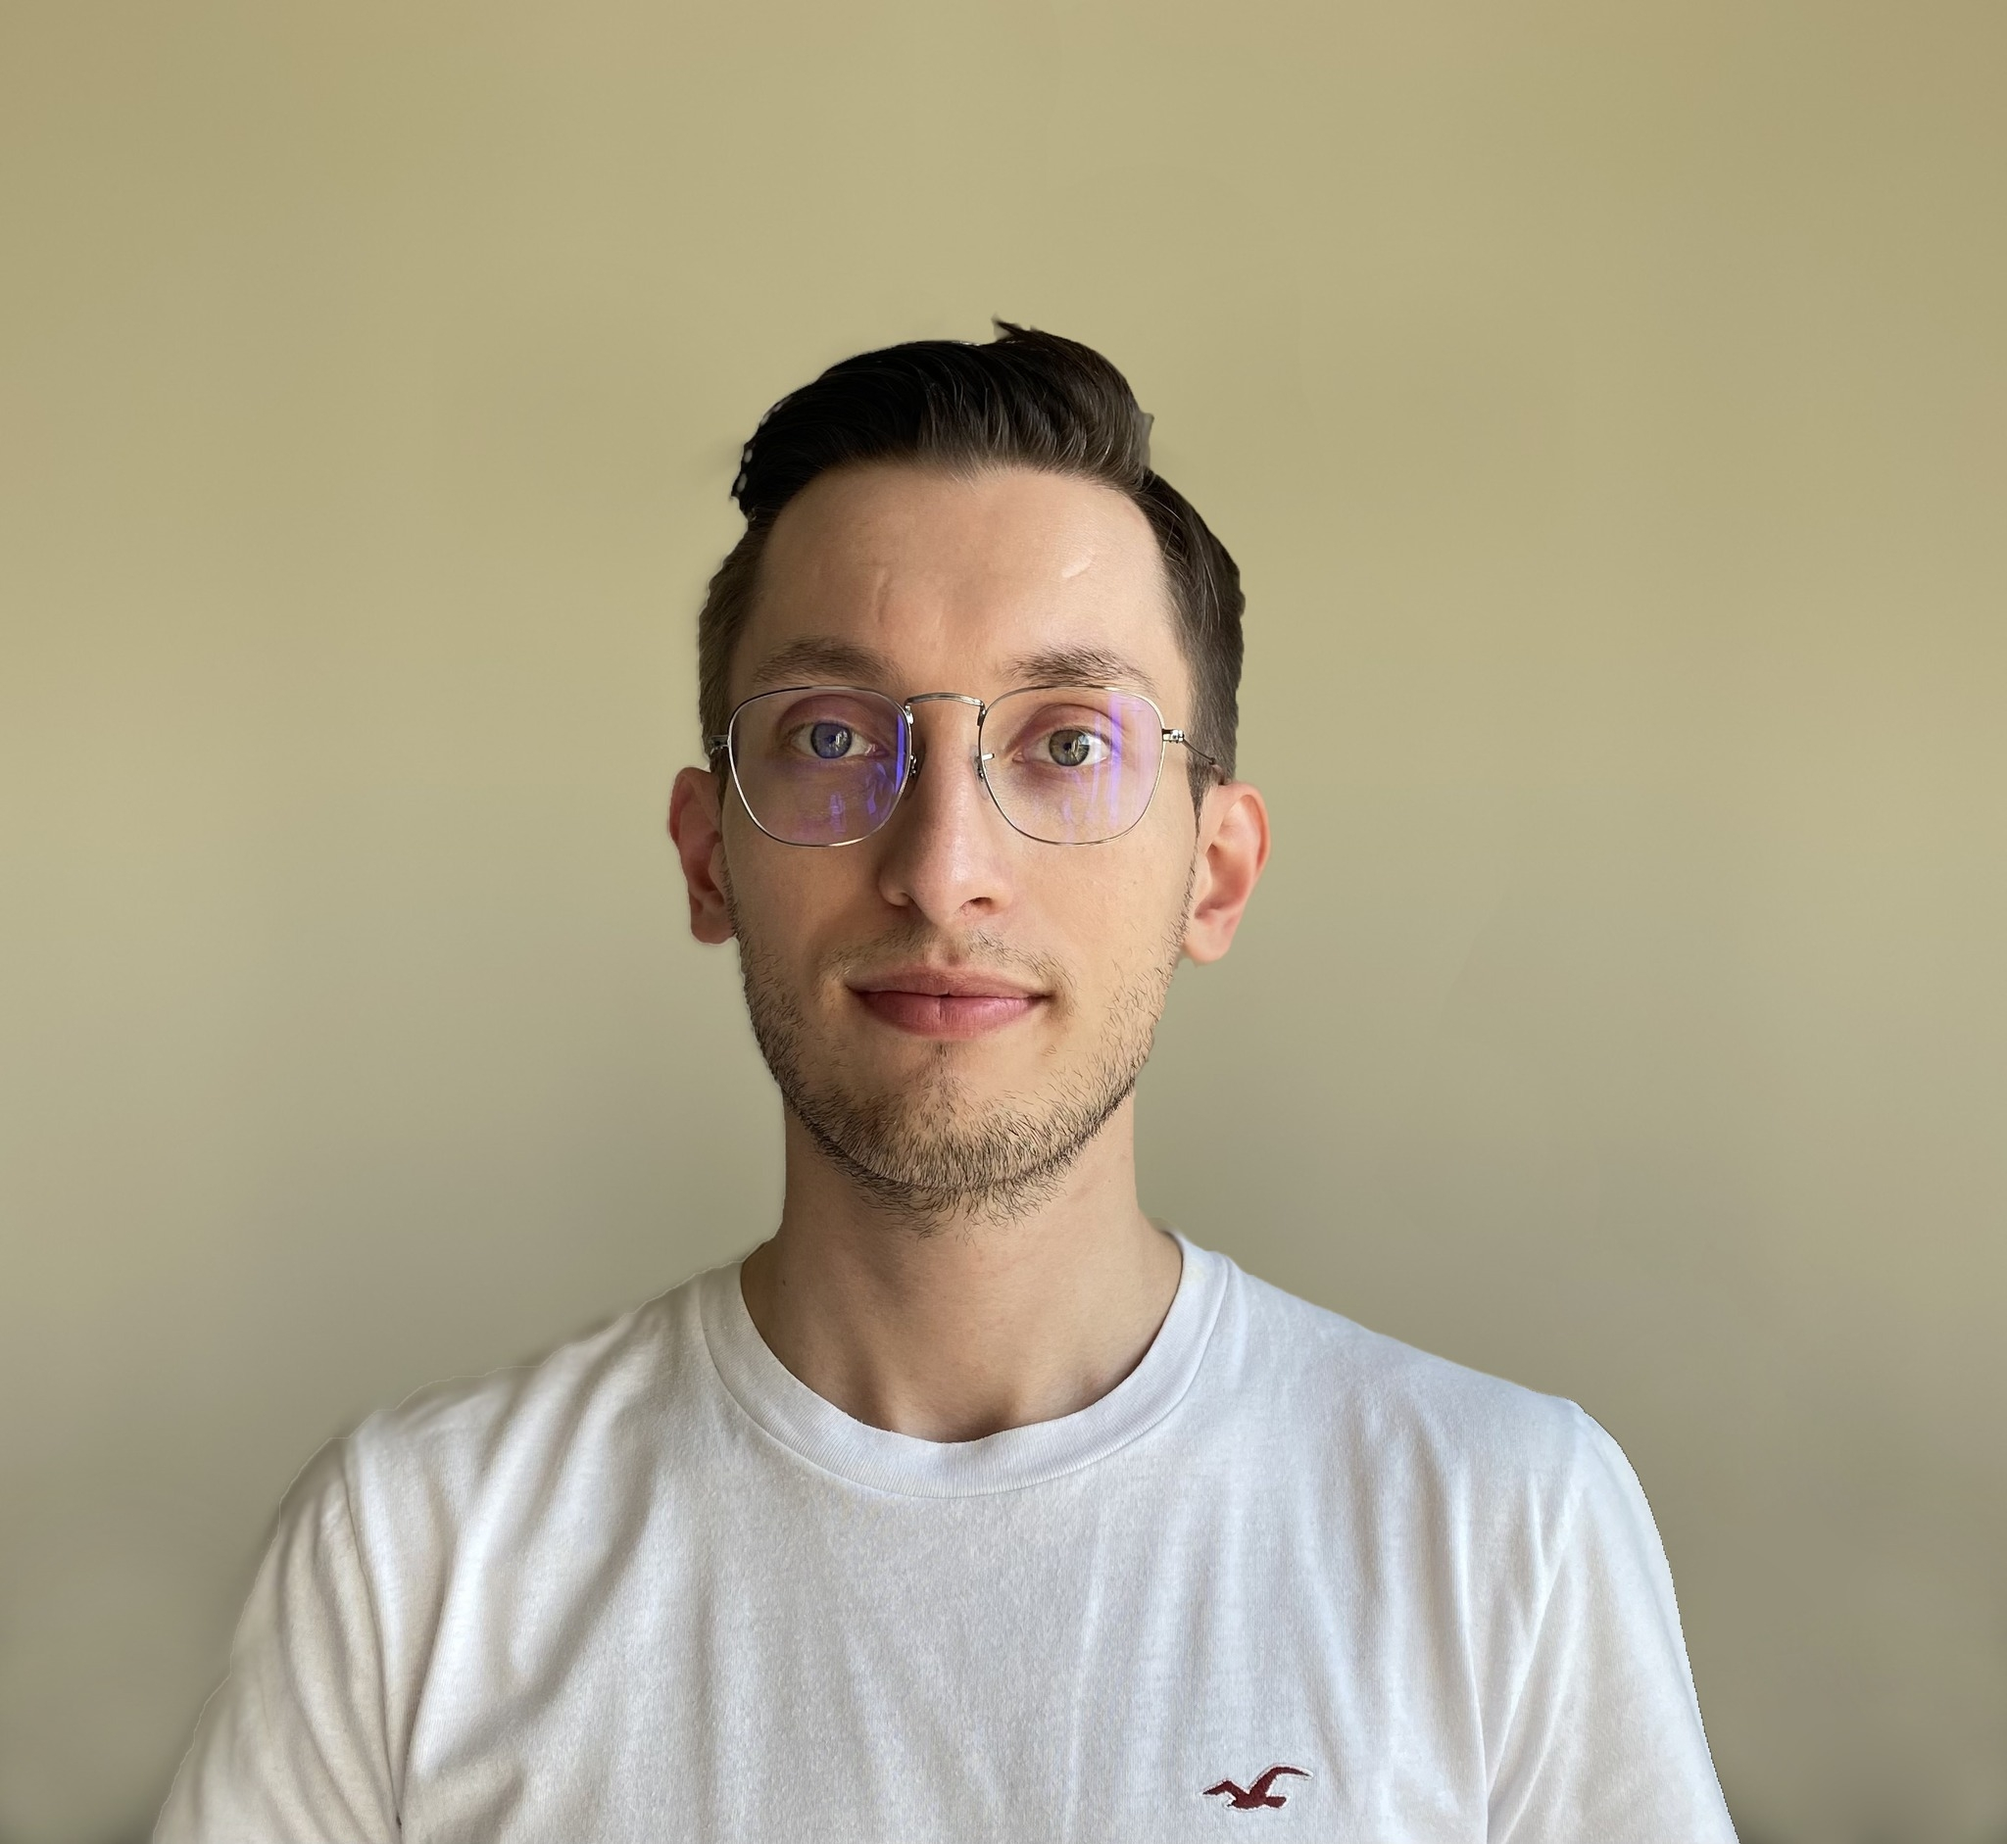
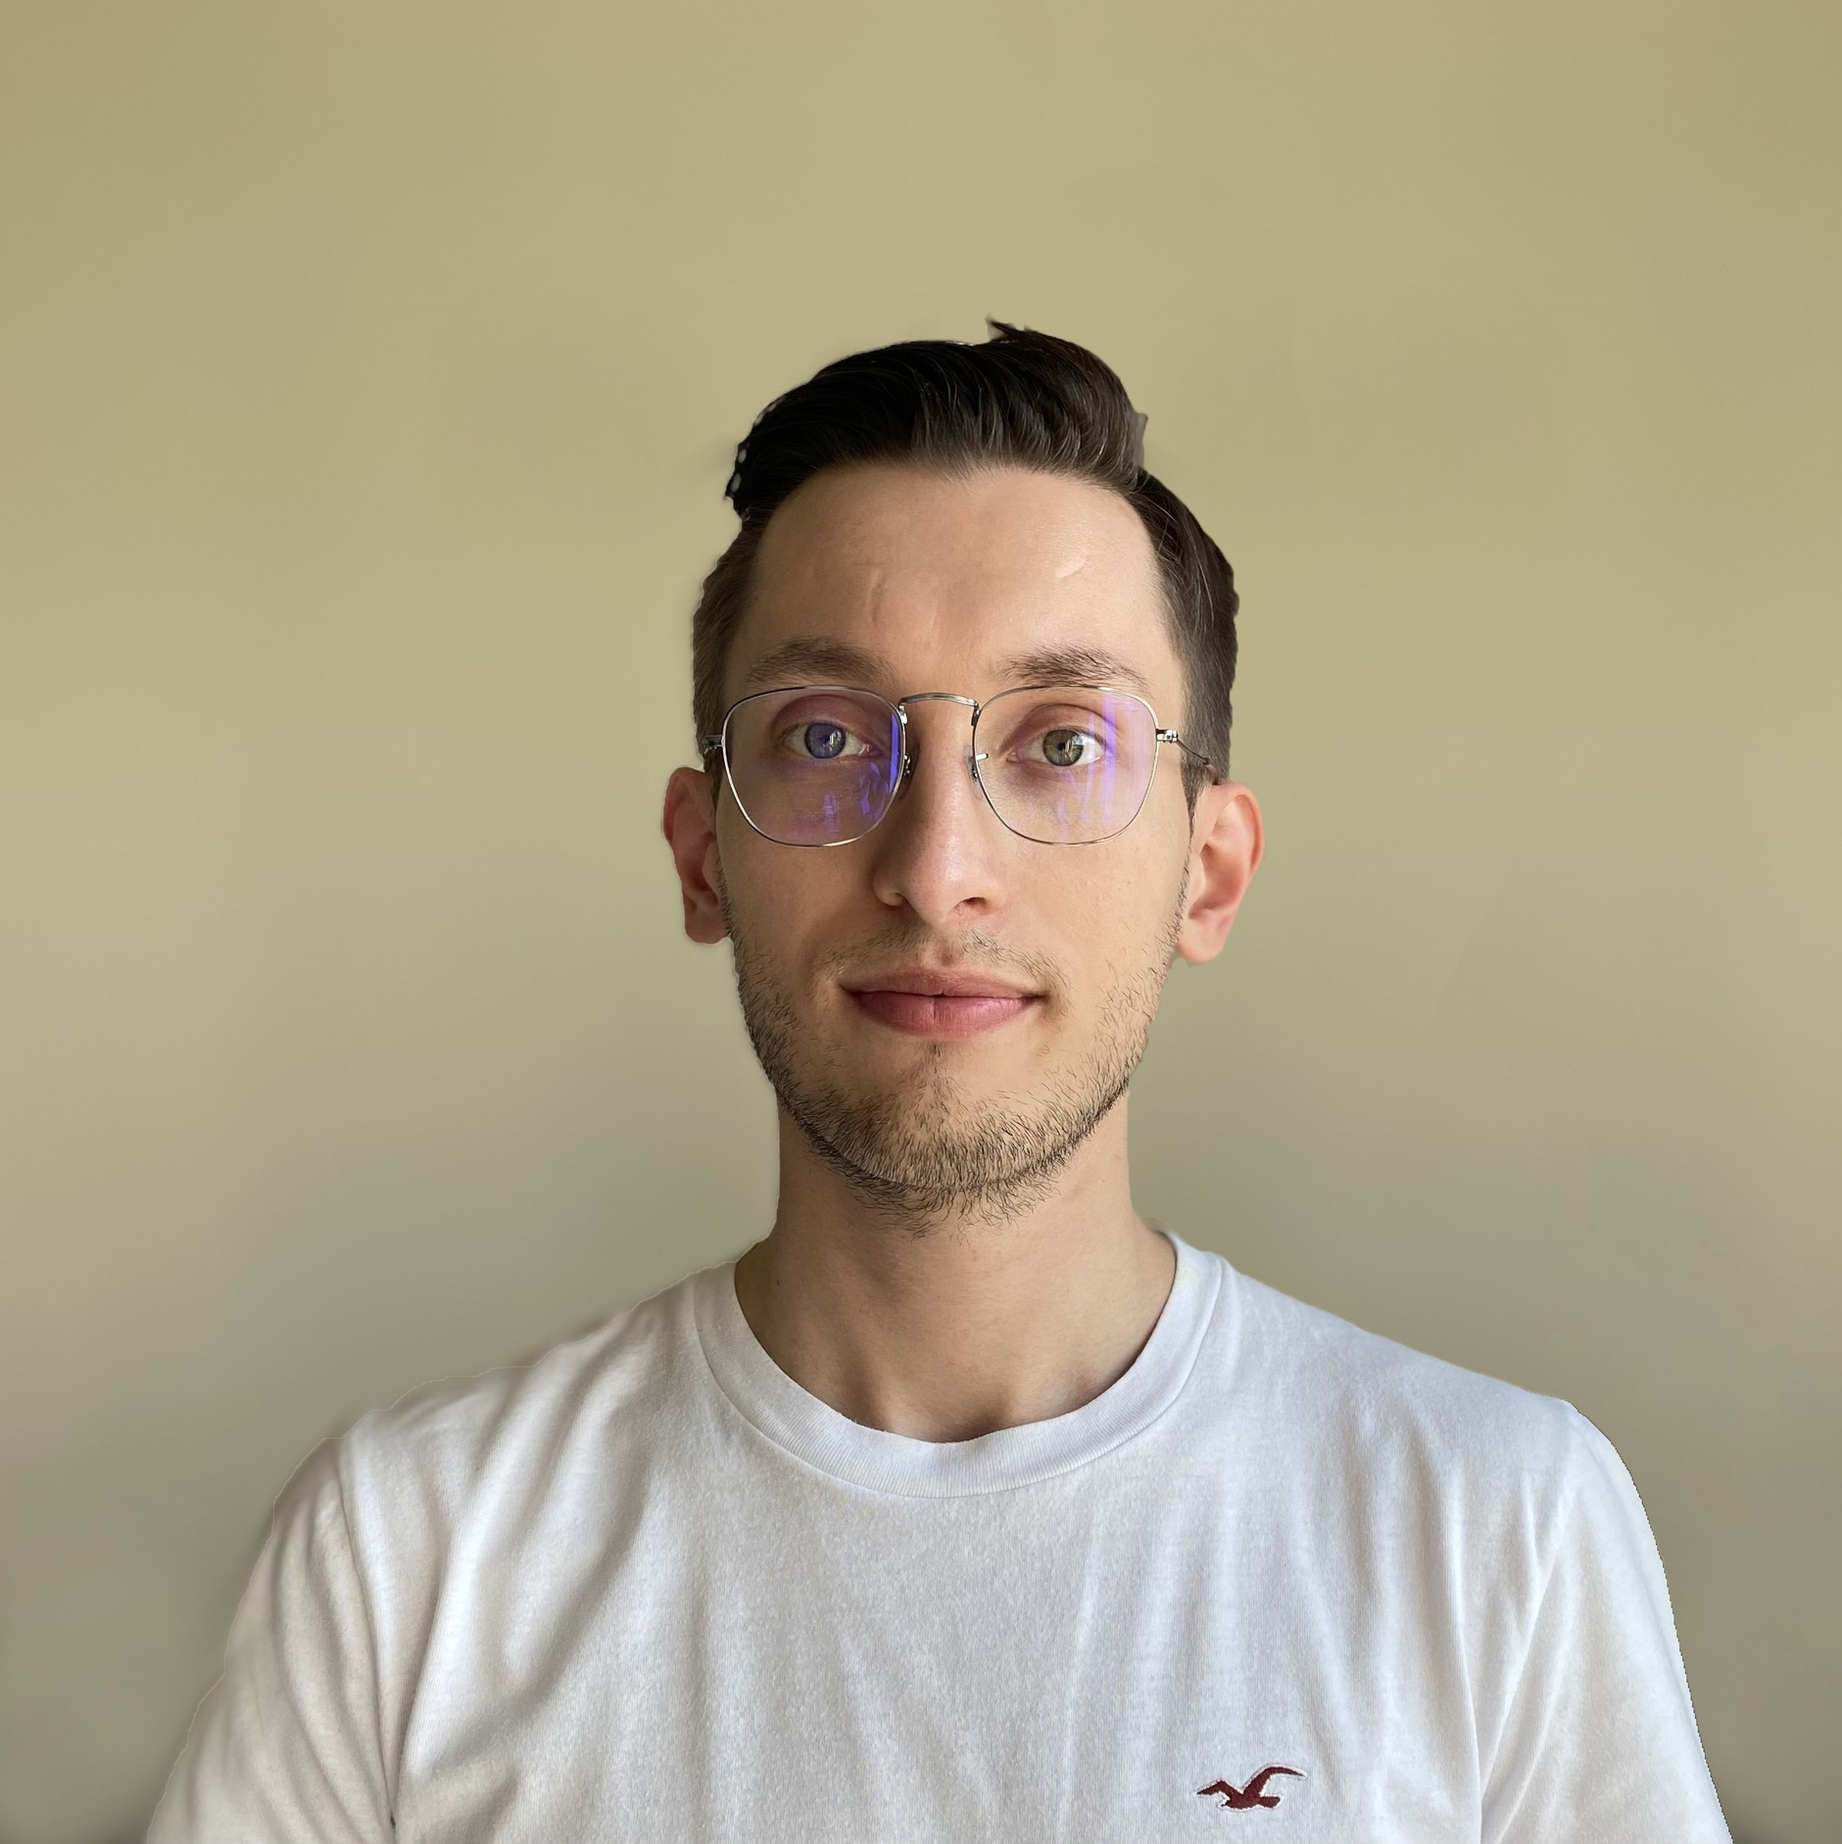
Add profile picture plus some styling

Changed region(s): [[0.0926, 0.1541, 0.9564, 1.0]]

diff --git a/src/components/Navbar.jsx b/src/components/Navbar.jsx
@@ -4,16 +4,16 @@ const Navbar = () => {
   return (
     <div className="w-full h-12 bg-black text-white flex justify-between items-center">
       {/* Left side */}
-      <div className="w-1/2">
-        <h1 className="text-xl font-semibold ml-8">Hello</h1>
+      <div className="w-1/4">
+        <h1 className="text-xl font-semibold ml-4">Hello</h1>
       </div>
 
       {/* Right side */}
-      <div className="w-1/2 ml-4 flex justify-end">
-        <ul className="w-64 flex space-x-4 items-center text-sm mr-8 "> 
-          <li className='w-16'>ABOUT ME</li>
-          <li>PROJECTS</li>
-          <li>CONTACT</li>
+      <div className="w-full ml-4 flex justify-end">
+        <ul className="w-72 flex space-x-4 items-center text-base mr-4 "> 
+          <li className='pt-0.5 pb-0.5 pl-0.5 pr-0.5 hover:border-white border-transparent border-2'>ABOUT ME</li>
+          <li className='pt-0.5 pb-0.5 pl-0.5 pr-0.5 hover:border-white border-transparent border-2'>PROJECTS</li>
+          <li className='pt-0.5 pb-0.5 pl-0.5 pr-0.5 hover:border-white border-transparent border-2'>CONTACT</li>
         </ul>
       </div>
     </div>

diff --git a/src/components/Hero.jsx b/src/components/Hero.jsx
@@ -1,15 +1,16 @@
-import React from 'react'
+import React from 'react';
+import ProfilePic from '../Images/AdamKrynskiPhotoProfil.jpg';
 
 const Hero = () => {
   return (
-    <div>
-        <div>
-            
+    <div className='w-full bg-black flex flex-col items-center'>
+        <div className='flex justify-center mt-8 mb-8'>
+            <img src={ProfilePic} alt='Profile Picture' className='w-39 h-40 rounded-full' />
         </div>
 
-        <div>
-            Hi I'm Adam and I'm a Junior Front End Developper / CSS Geek.
-        </div>
+        <p className='w-1/2 text-white pb-4 flex text-center'>
+            Hi I'm Kevin and I'm a Junior Front End Developper / CSS Geek.
+        </p>
     </div>
   )
 }
